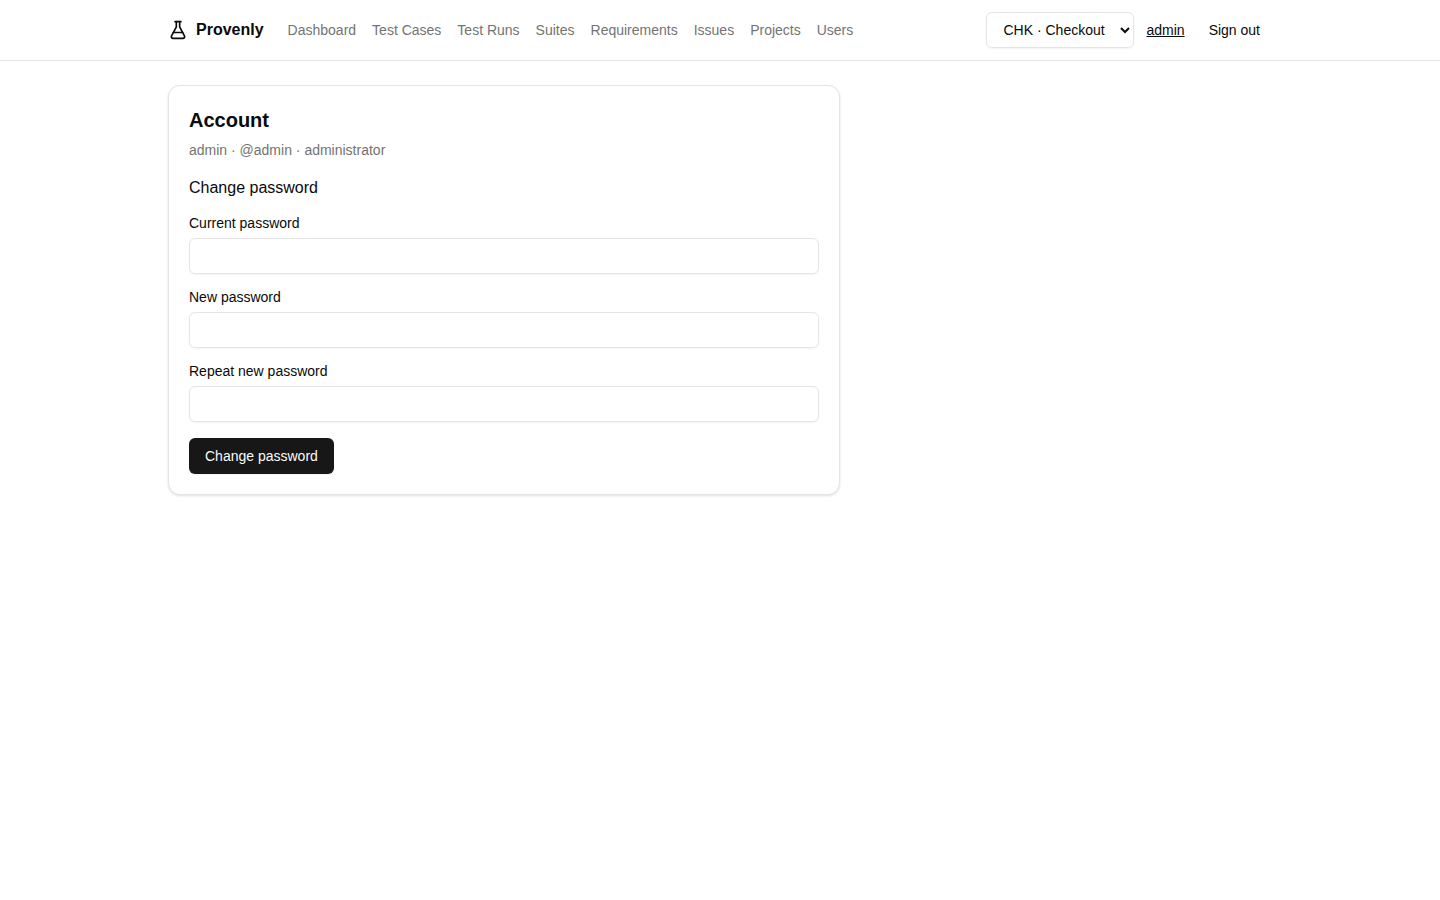
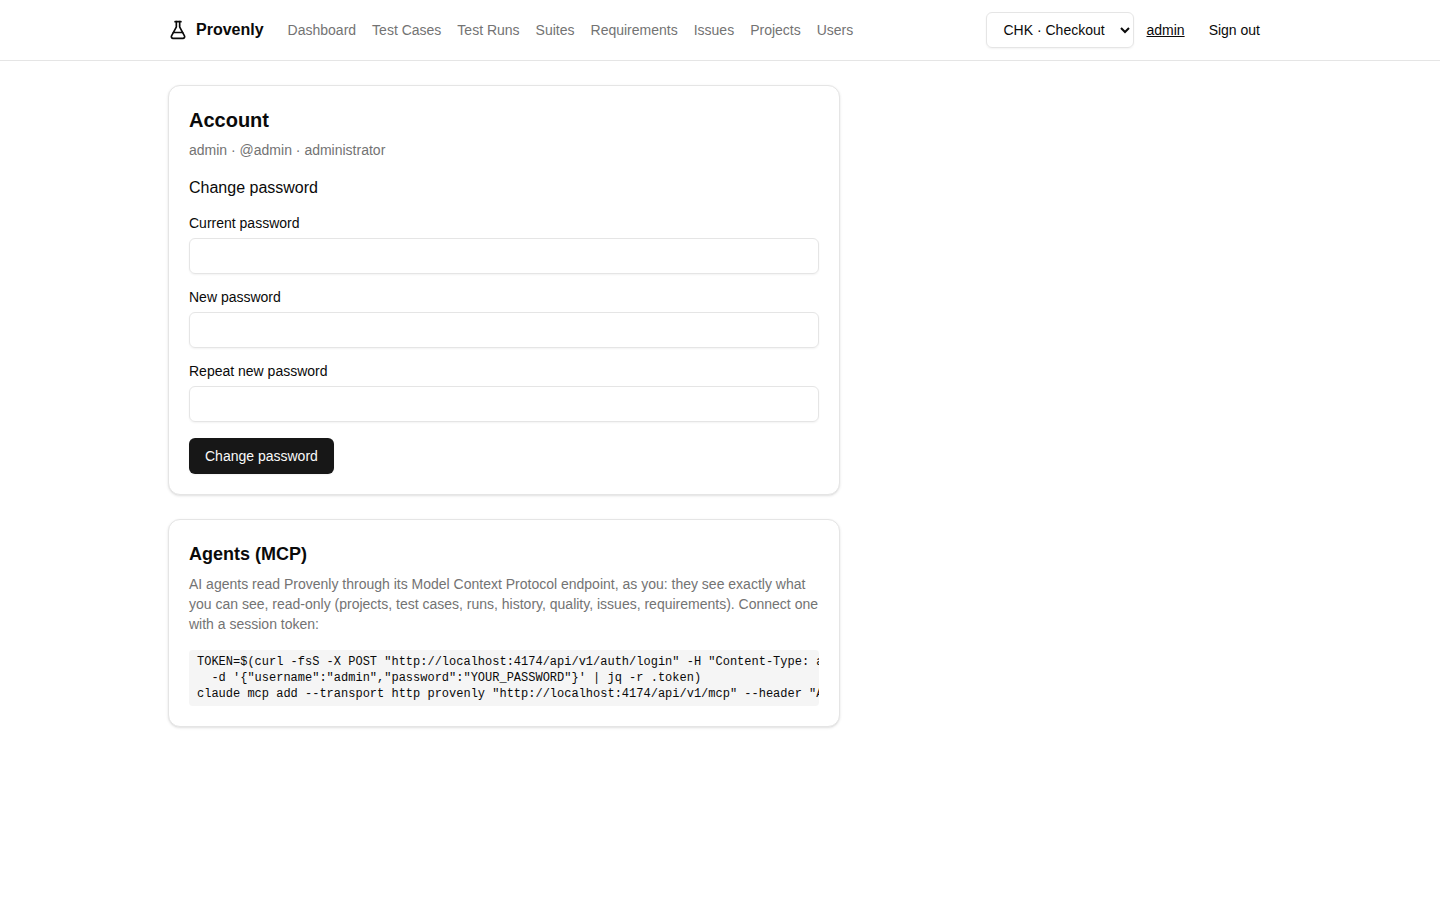
Prototype feature 19: probe sweep and account screenshot
Claude-Session: https://claude.ai/code/session_01GioNDrizPJ4gyPR3jgQwuF

Changed region(s): [[0.125, 0.5911, 0.5625, 0.7778]]

diff --git a/scripts/probe/edge_cases.py b/scripts/probe/edge_cases.py
@@ -630,10 +630,10 @@ def main():
     for args in [{"projectKey": "../x"}, {"projectKey": ".."}]:
         st, body = mcp({"jsonrpc": "2.0", "id": 1, "method": "tools/call", "params": {"name": "list_issues", "arguments": args}})
         check(f"mcp list_issues {args}", f"{st} {body.get('error', {}).get('code') if isinstance(body, dict) else body}", "200 -32602")
-    for args in [{}, {"testCaseId": 0}, {"testCaseId": "1"}, {"testCaseId": 1.5}, {"testCaseId": 2 ** 70}, {"testCaseId": 1, "x": 1}]:
+    for args in [{}, {"testCaseId": 0}, {"testCaseId": "1"}, {"testCaseId": 1.5}, {"testCaseId": 2 ** 70}, {"testCaseId": 9223372036854775807}, {"testCaseId": 1, "x": 1}]:
         st, body = mcp({"jsonrpc": "2.0", "id": 1, "method": "tools/call", "params": {"name": "get_test_case", "arguments": args}})
         check(f"mcp get_test_case {args}", f"{st} {body.get('error', {}).get('code') if isinstance(body, dict) else body}", "200 -32602")
-    for name, args in [("get_test_case", {"testCaseId": 9223372036854775807}), ("get_project_quality", {"projectKey": "NOPE1"}),
+    for name, args in [("get_test_case", {"testCaseId": 999999999}), ("get_project_quality", {"projectKey": "NOPE1"}),
                        ("search_test_cases", {"project": "nope"}), ("list_test_run_results", {"testRunId": 1, "status": "\u0000"})]:
         st, body = mcp({"jsonrpc": "2.0", "id": 1, "method": "tools/call", "params": {"name": name, "arguments": args}})
         res = body.get("result", {}) if isinstance(body, dict) else {}
